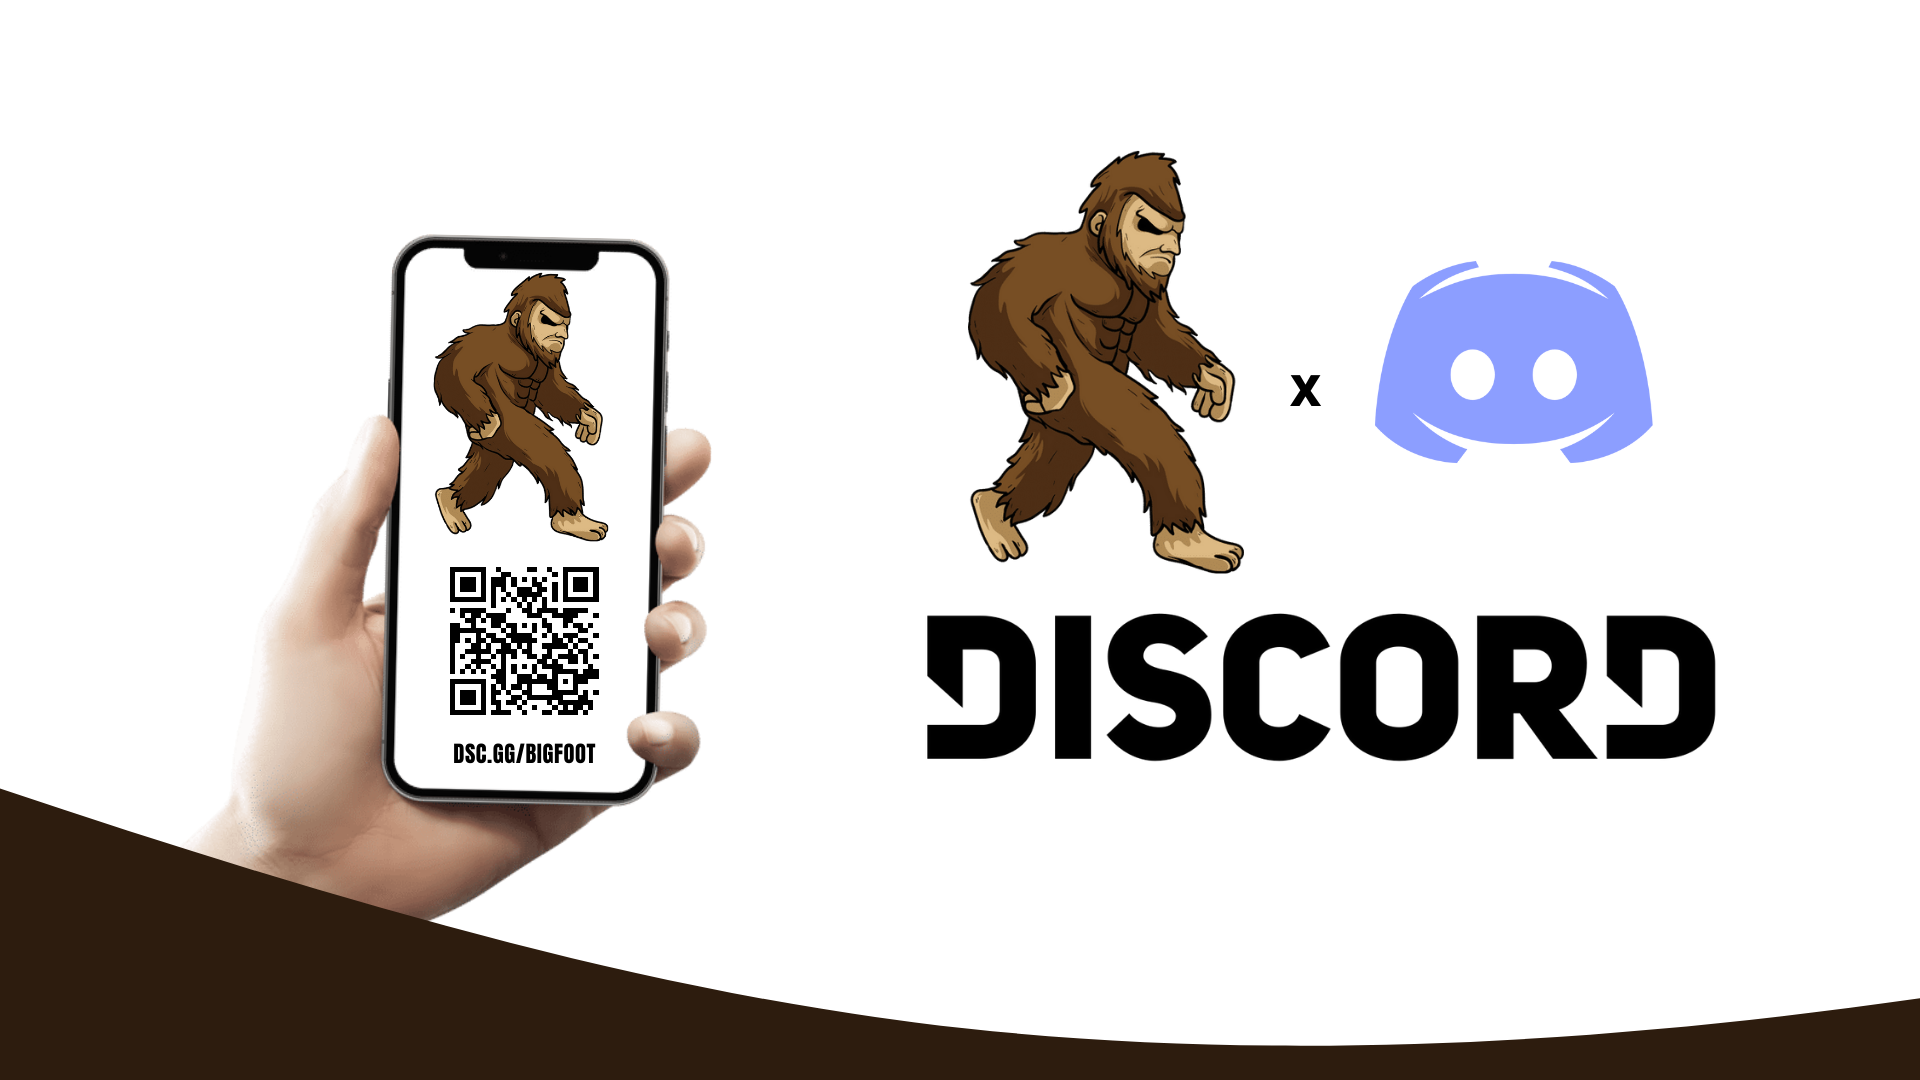
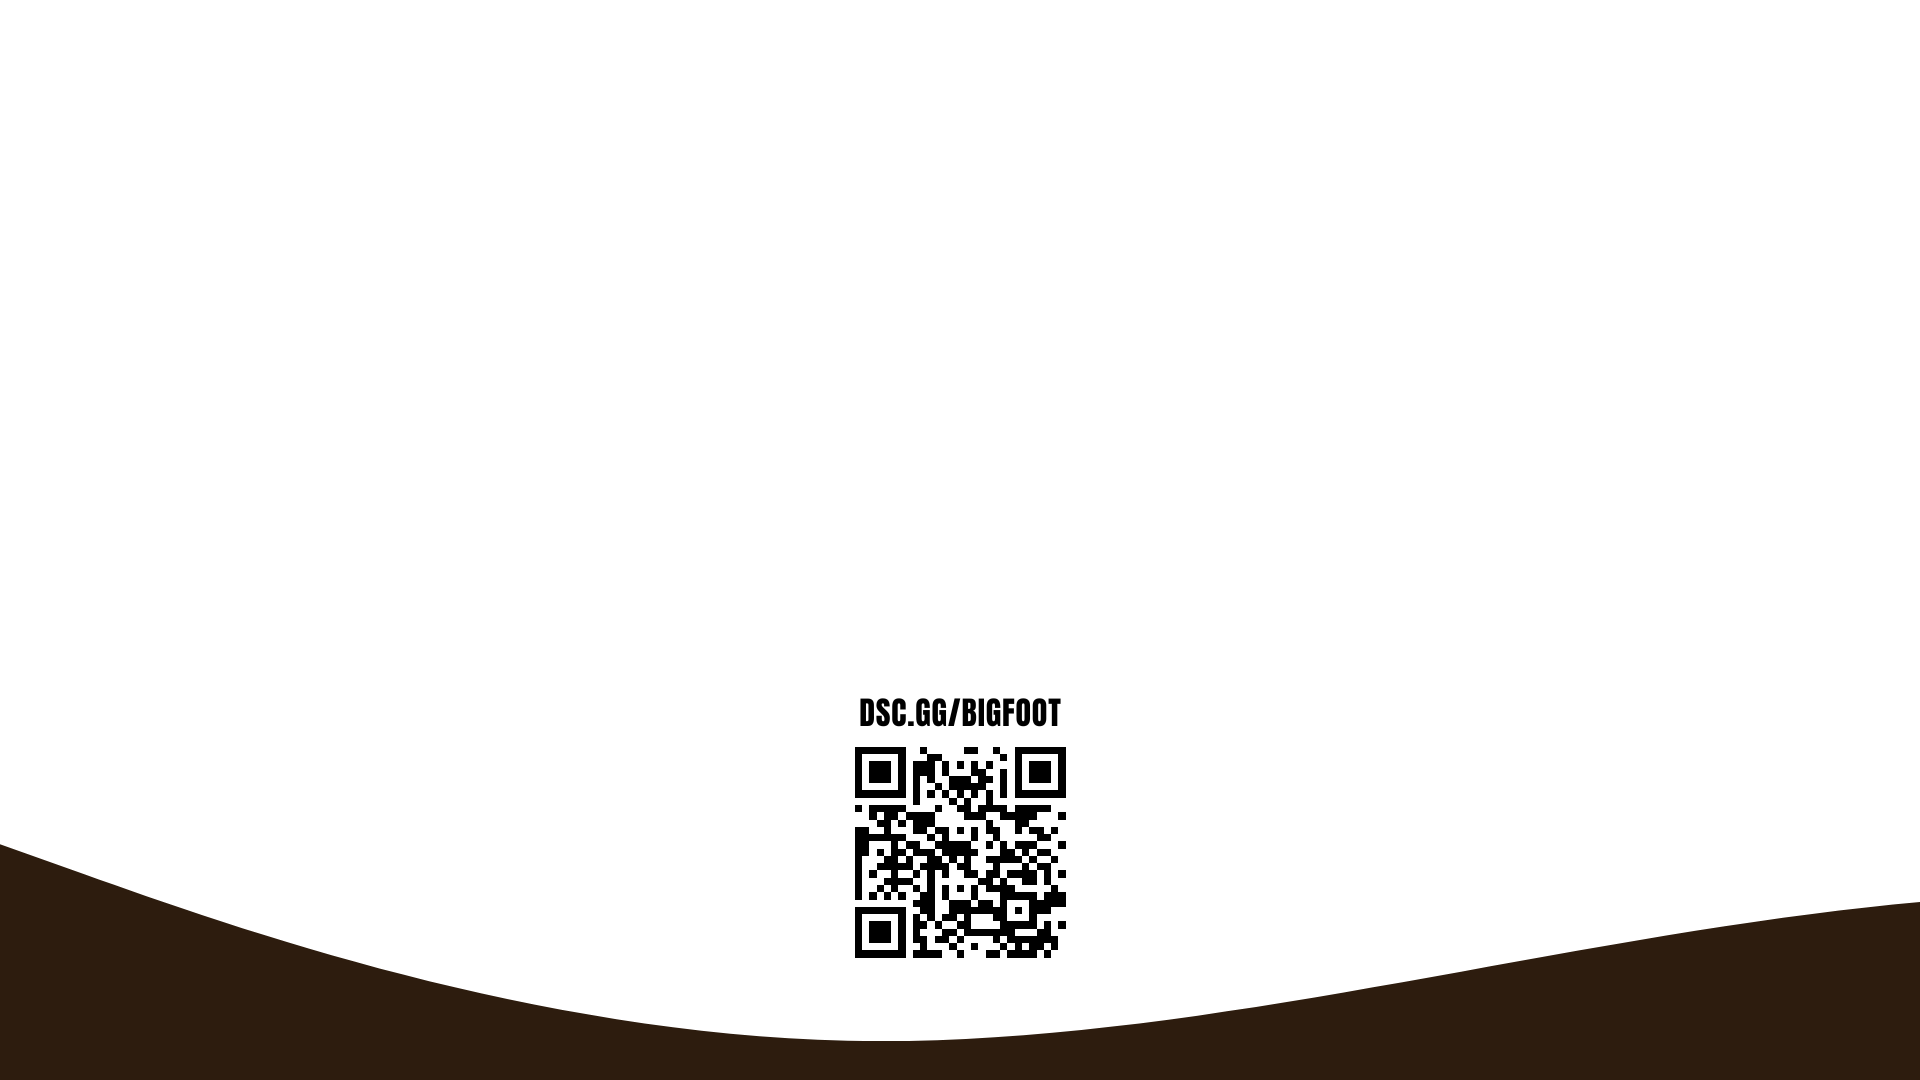
gg

diff --git a/index.html b/index.html
@@ -33,6 +33,7 @@
         <!--<script src="scripts/alert.js"></script>-->
         <script src="scripts/textanim.js"></script>
         <script src="scripts/hide.js"></script>
+        <script src="scripts/discordanim.js"></script>
         <!-- Panelbear -->
         <script async src="https://cdn.panelbear.com/analytgics.js?site=BhGiVg8Jzwi"></script>
         <script>
@@ -124,7 +125,6 @@
                 <section>
                     <div class="twoarrow" style="background-color: rgb(255, 255, 255);">
                         <img style="margin-top: -10px;height: auto; width: 100vw; max-width:100vw;" src="images/2.png"></img>
-                        <!--<a href="#section3"><img class="twoarrowimg" style="max-height: 920px;" alt="Arrow Down Icon" src="images/arrow.png"></a>-->
                     </div>
             </div>
             </section>
@@ -132,8 +132,17 @@
             <div class="main">
                 <section>
                     <div class="threearrow">
-                        <div style="width:100%; height:100%; position:absolute;z-index:5;"></div>
-                        <img style="height: auto; width: 100vw; max-width:100vw;" src="images/3.png"></img>
+                        <div style="background-position: center;width:100%;    text-align: center; height:1080px; position:relative;z-index:5; z-index:5; background-image:url(images/3.png);">
+                            <section class="scroll-container">
+                                <div class="scroll-element js-scroll slide-left">
+                                <img style="height: 400px;" src="images/bigfoot.webp"></img><img style="max-height:300px" src="images/discordlogo.png"></img>
+                                </div>
+                            </section>
+                            
+                            </div>
+                        <!--<img style="height: auto; width: 100vw; max-width:100vw;" src="images/3.png"></img>-->
+                        <!--JOIN OUR DISCORD ANIMATION?-->
+                        
                 </section>
             </div>
             <div class="main">
@@ -143,15 +152,7 @@
                             <h2>CLICK TO PLAY 200+ GAMES!</h2>
                         </button>
                     </div>
-                    <!-- Ads for bgs 
-<ins class="adsbygoogle"
-style="display:block"
-data-ad-client="ca-pub-6938276368216011"
-data-ad-slot="3520459250"
-data-ad-format="auto"
-data-full-width-responsive="true"></ins><script>
-(adsbygoogle = window.adsbygoogle || []).push({});
-</script>-->
+                
             </div>
             </section>
             <div class="main">

diff --git a/styles/style.css b/styles/style.css
@@ -21,6 +21,129 @@ html{
 }
   
 
+
+.container {
+  max-width: 1280px;
+  width: 95%;
+  margin: 0 auto;
+}
+
+.scroll-container {
+  height: 100vh;
+  min-height: 450px;
+  padding: 2rem 1rem;
+  display: flex;
+  align-items: center;
+  box-sizing: border-box;
+}
+
+
+.scroll-container:nth-of-type(even) {
+  flex-direction: row-reverse;
+}
+
+.scroll-element,
+.scroll-caption {
+  width: 50%;
+}
+
+
+
+
+
+
+@media screen and (max-width: 650px) {
+  .scroll-container,
+  .scroll-container:nth-of-type(even) {
+    flex-direction: column;
+    align-content: inherit;
+  }
+
+  .scroll-element {
+    height: 100%;
+  }
+
+  .scroll-element,
+  .scroll-caption {
+    width: 100%;
+  }
+}
+/**Styling scrollable elements*/
+
+.js-scroll {
+  opacity: 0;
+  transition: opacity 500ms;
+}
+
+.js-scroll.scrolled {
+  opacity: 1;
+}
+
+.scrolled.fade-in {
+  animation: fade-in 1s ease-in-out both;
+}
+
+.scrolled.fade-in-bottom {
+  animation: fade-in-bottom 1s ease-in-out both;
+}
+
+.scrolled.slide-left {
+  animation: slide-in-left 1s ease-in-out both;
+}
+
+.scrolled.slide-right {
+  animation: slide-in-right 1s ease-in-out both;
+}
+
+
+@keyframes slide-in-left {
+  0% {
+    -webkit-transform: translateX(-100px);
+    transform: translateX(-100px);
+    opacity: 0;
+  }
+  100% {
+    -webkit-transform: translateX(0);
+    transform: translateX(0);
+    opacity: 1;
+  }
+}
+
+@keyframes slide-in-right {
+  0% {
+    -webkit-transform: translateX(100px);
+    transform: translateX(100px);
+    opacity: 0;
+  }
+  100% {
+    -webkit-transform: translateX(0);
+    transform: translateX(0);
+    opacity: 1;
+  }
+}
+
+@keyframes fade-in-bottom {
+  0% {
+    -webkit-transform: translateY(50px);
+    transform: translateY(50px);
+    opacity: 0;
+  }
+  100% {
+    -webkit-transform: translateY(0);
+    transform: translateY(0);
+    opacity: 1;
+  }
+}
+
+@keyframes fade-in {
+  0% {
+    opacity: 0;
+  }
+  100% {
+    opacity: 1;
+  }
+}
+
 .footer {
   
   color: #ffffff;

diff --git a/scripts/discordanim.js b/scripts/discordanim.js
@@ -1,0 +1,40 @@
+const scrollElements = document.querySelectorAll(".js-scroll");
+
+const elementInView = (el, dividend = 1) => {
+  const elementTop = el.getBoundingClientRect().top;
+
+  return (
+    elementTop <=
+    (window.innerHeight || document.documentElement.clientHeight) / dividend
+  );
+};
+
+const elementOutofView = (el) => {
+  const elementTop = el.getBoundingClientRect().top;
+
+  return (
+    elementTop > (window.innerHeight || document.documentElement.clientHeight)
+  );
+};
+
+const displayScrollElement = (element) => {
+  element.classList.add("scrolled");
+};
+
+const hideScrollElement = (element) => {
+  element.classList.remove("scrolled");
+};
+
+const handleScrollAnimation = () => {
+  scrollElements.forEach((el) => {
+    if (elementInView(el, 1.25)) {
+      displayScrollElement(el);
+    } else if (elementOutofView(el)) {
+      hideScrollElement(el)
+    }
+  })
+}
+
+window.addEventListener("scroll", () => { 
+  handleScrollAnimation();
+});

diff --git a/scripts/text.js b/scripts/text.js
@@ -28,8 +28,5 @@ r_text[25] = "Will you marry me?";
 var i = Math.floor(26 * Math.random());
 //number next to math.floor needs to be one more than the last number added
 document.write(
-  '<span class="textjs";style="font-weight: 1000;font-style: normal; text-align:center; color: white; font-family: 'Anton', sans-serif;>' +
-    r_text[i] +
-    "</span>"
+  '<span class="textjs";>' + r_text[i] +'</span>'
 );
-//remove padding (100px)

diff --git a/bootstrap/css/bootstrap.min.css b/bootstrap/css/bootstrap.min.css
@@ -31,10 +31,7 @@ body{overflow-x: hidden;margin:0;color:#1f1f1f;}
     padding-left: 00px;
     padding-right: 0px;
 }
-.span4 {
-   
-    padding: 0px;
-}
+
 }
 .container,.navbar-fixed-top .container,.navbar-fixed-bottom .container{width:0px;}
 .span11{width:860px;}
